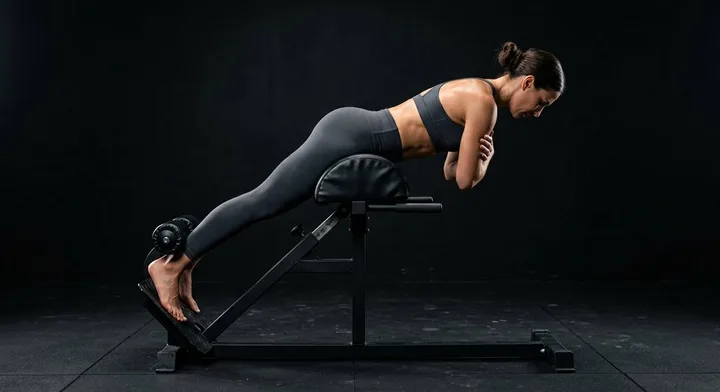
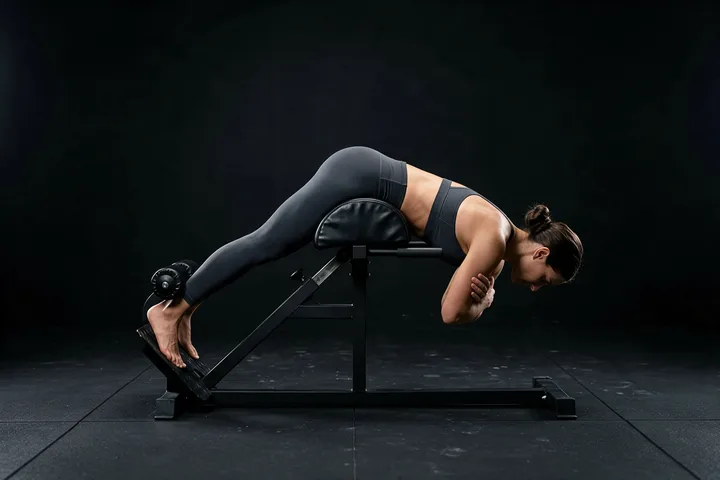
Back extension: lowered-torso start frame
Claude-Session: https://claude.ai/code/session_017924XBJbRZB1NdLFDXCxtq

diff --git a/sw.js b/sw.js
@@ -1,5 +1,5 @@
 // Офлайн-режим: оболочка и картинки кэшируются; страница и скрипты обновляются из сети, когда она есть.
-var V='back-v6';
+var V='back-v7';
 var CORE=["./", "index.html", "anim.js", "tgbk.js", "ydsync.js", "manifest.webmanifest", "icon-192.png", "icon-512.png", "apple-touch-icon.png", "favicon-32.png", "icon.svg", "gif/ph-1-1.webp", "gif/ph-30-1.webp", "gif/ph-1-2.webp", "gif/ph-10-1.webp", "gif/ph-10-2.webp", "gif/ph-12-1.webp", "gif/ph-12-2.webp", "gif/ph-14-1.webp", "gif/ph-14-2.webp", "gif/ph-16-1.webp", "gif/ph-16-2.webp", "gif/ph-17-1.webp", "gif/ph-17-2.webp", "gif/ph-18-1.webp", "gif/ph-18-2.webp", "gif/ph-19-1.webp", "gif/ph-19-2.webp", "gif/ph-2-1.webp", "gif/ph-2-2.webp", "gif/ph-20-1.webp", "gif/ph-21-1.webp", "gif/ph-21-2.webp", "gif/ph-23-1.webp", "gif/ph-23-2.webp", "gif/ph-24-1.webp", "gif/ph-24-2.webp", "gif/ph-4-1.webp", "gif/ph-4-2.webp", "gif/ph-6-1.webp", "gif/ph-6-2.webp", "gif/ph-8-1.webp", "gif/ph-8-2.webp"];
 self.addEventListener('install',function(e){
   e.waitUntil(caches.open(V).then(function(c){return c.addAll(CORE);}).then(function(){return self.skipWaiting();}));
